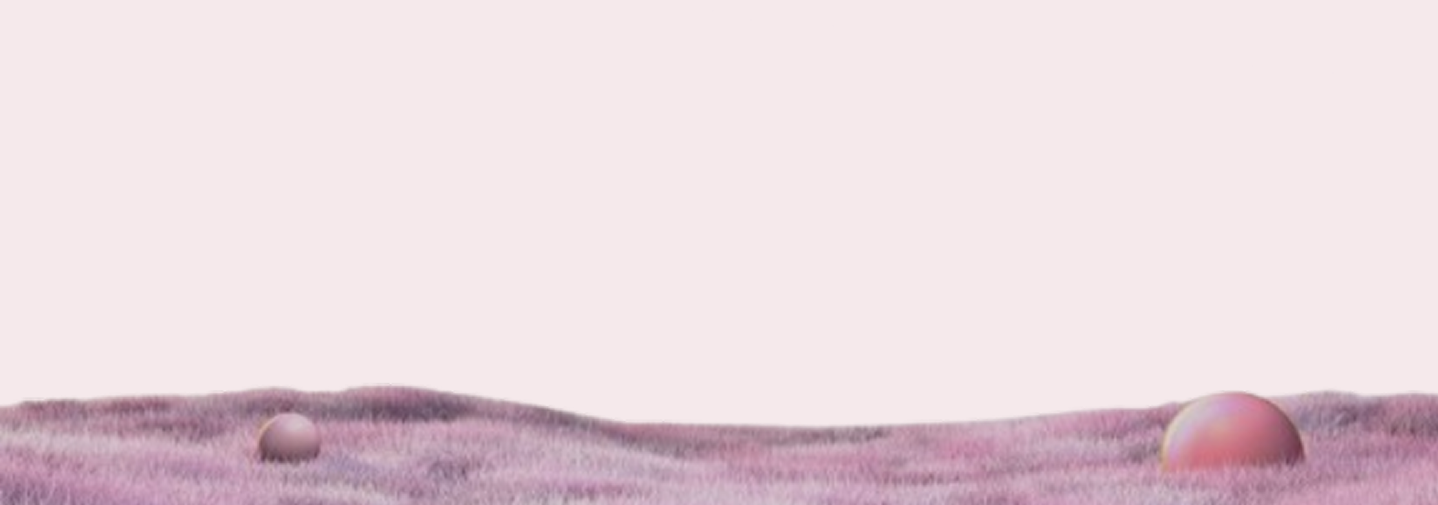
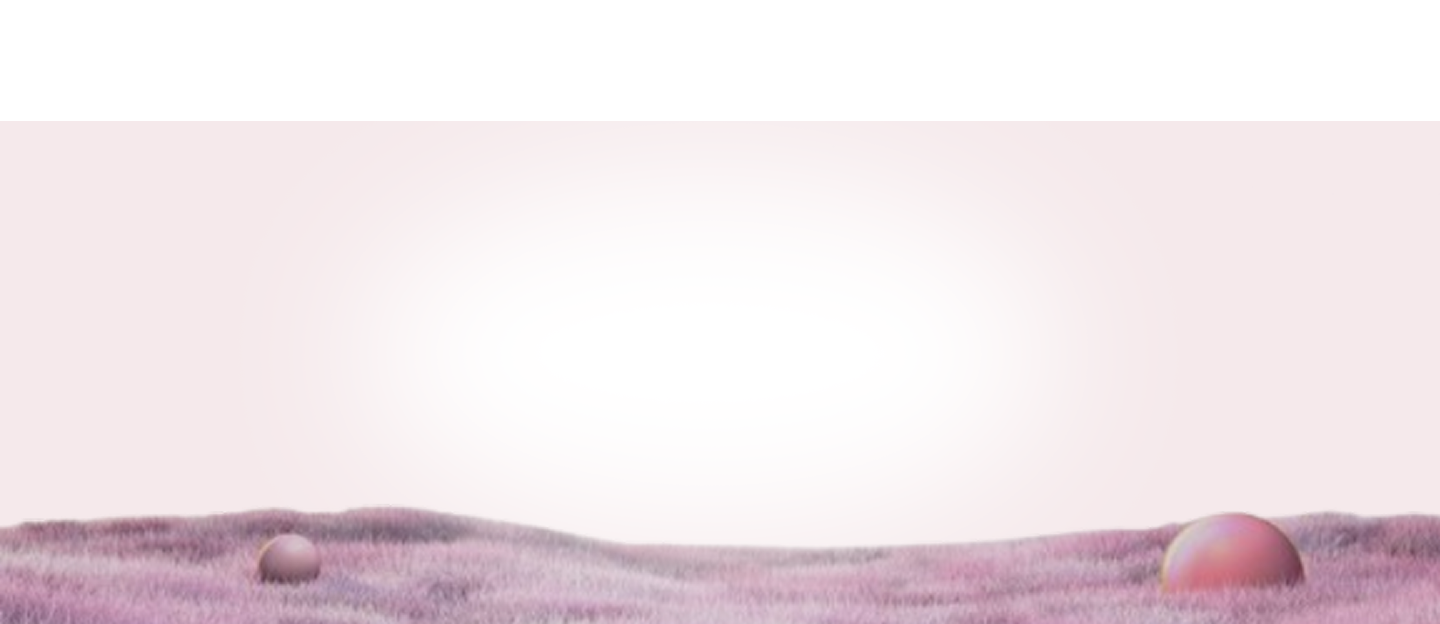
ui: Make basic design improvement in the personal profile page

Changed region(s): [[0.0, 0.7426, 1.0, 0.9802]]

diff --git a/frontend/app/profile/page.tsx b/frontend/app/profile/page.tsx
@@ -3,7 +3,7 @@
 import { useState } from 'react'
 import Link from 'next/link'
 import Image from 'next/image'
-import { User, Folder, Activity, Loader2, Edit, Camera } from 'lucide-react'
+import { User, Folder, Activity, Loader2, Camera } from 'lucide-react'
 import { useCurrentAccount } from '@mysten/dapp-kit'
 
 import { Tabs, TabsContent, TabsList, TabsTrigger } from '@/components/ui'
@@ -69,12 +69,17 @@ export default function ProfilePage() {
 
   return (
     <>
-      <div className="container mx-auto px-4 pb-12 pt-24 min-h-body">
-        <div className="max-w-6xl mx-auto">
-          <div className="mb-8">
-            <div className="flex flex-col sm:flex-row items-start gap-4 mb-6">
+      <div className="relative">
+        <div className="vertical-line left-4"></div>
+        <div className="vertical-line right-4"></div>
+        <div className="max-w-[1400px] mx-auto px-4 pb-12 pt-24 min-h-body relative">
+          <div className="mb-8 w-full">
+            <div
+              className="flex flex-col sm:flex-row items-end gap-4 mb-6 min-h-[376px] bg-cover bg-bottom bg-no-repeat px-4 pt-4 pb-20"
+              style={{ backgroundImage: 'url("/img/footer-bg.png")' }}
+            >
               <div
-                className="relative w-24 h-24 rounded-full border-2 border-gray-200 overflow-hidden cursor-pointer group flex-shrink-0"
+                className="relative w-20 h-20 md:w-44 md:h-44 rounded-full overflow-hidden cursor-pointer group flex-shrink-0"
                 onClick={() => setIsImagePickerOpen(true)}
               >
                 {isUpdatingAvatar ? (
@@ -99,10 +104,17 @@ export default function ProfilePage() {
               </div>
 
               <div className="flex-1 min-w-0 pt-2">
-                <h1 className="text-2xl sm:text-3xl font-bold truncate">
+                <h1 className="text-2xl sm:text-[32px] truncate font-medium leading-snug">
                   {profile?.display_name || 'Your Profile'}
                 </h1>
-                <p className="text-gray-500 mt-1">@{profile?.username}</p>
+                <p className="text-[#5E5E5E] mt-1 font-medium mb-6">@{profile?.username}</p>
+
+                <button
+                  onClick={() => setIsEditModalOpen(true)}
+                  className="btn btn-outline h-[50px] font-medium"
+                >
+                  Edit Profile
+                </button>
               </div>
               <div className="flex items-center gap-4 sm:ml-auto pt-2">
                 {profile?.username && (
@@ -113,13 +125,6 @@ export default function ProfilePage() {
                     <button className="btn btn-outline h-[30px]">View Public</button>
                   </Link>
                 )}
-                <button
-                  onClick={() => setIsEditModalOpen(true)}
-                  className="btn btn-black"
-                >
-                  <Edit className="w-4 h-4" />
-                  Edit Profile
-                </button>
               </div>
             </div>
           </div>
